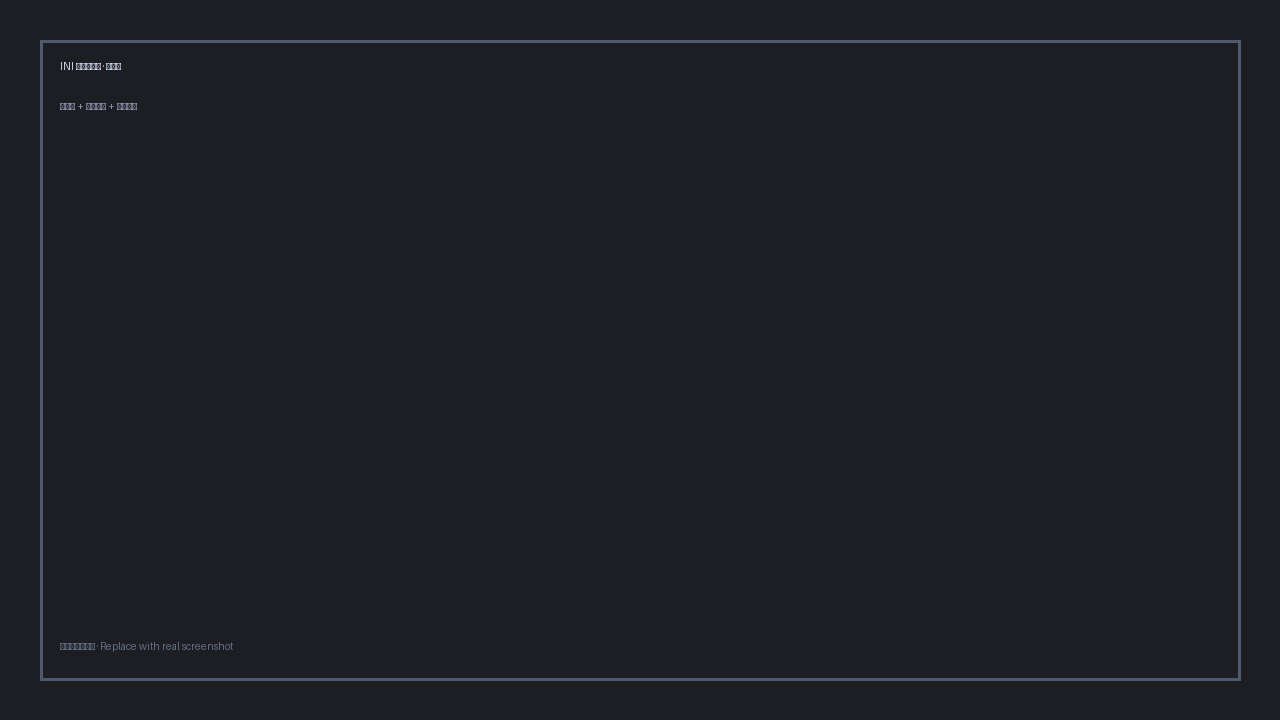
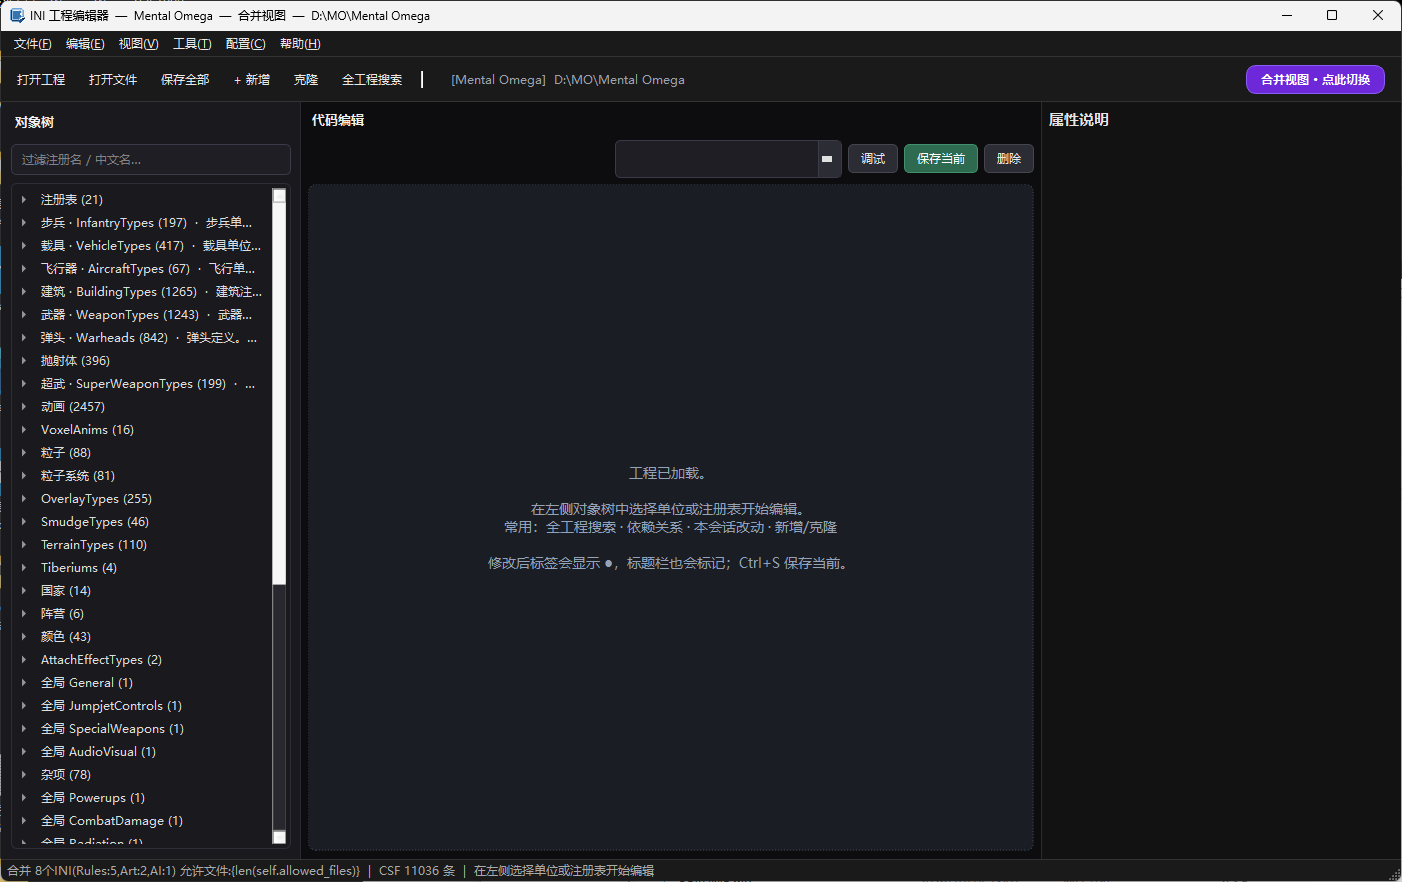
更新 README 界面预览截图（编辑器主界面/依赖图/新增克隆/工坊）

diff --git a/README.md b/README.md
@@ -30,19 +30,38 @@
 
 ## 界面预览
 
-> 正式截图请替换 `assets/screenshots/` 下同名文件后，本段图片会自动更新。
+截图位于 `assets/screenshots/`，替换同名文件后本段会自动更新。
 
 ### INI 工程编辑器
 
+主界面（对象树 + 合并视图）
+
 ![编辑器主界面](assets/screenshots/01_editor_main.png)
 
-![编辑器调试与部署](assets/screenshots/02_editor_debug.png)
+代码编辑（语法高亮、属性说明）
+
+![代码编辑](assets/screenshots/02_editor_code.png)
+
+依赖关系图（单位 → 武器 / 弹头 / 抛射体 / 前提 / 动画）
+
+![依赖关系图](assets/screenshots/03_editor_deps.png)
+
+新增单位向导
+
+![新增单位](assets/screenshots/04_editor_new.png)
+
+克隆单位向导
+
+![克隆单位](assets/screenshots/05_editor_clone.png)
+
+调试与部署
+
+![调试部署](assets/screenshots/06_editor_debug.png)
 
 ### 战术工坊
 
-![工坊主界面](assets/screenshots/03_workshop_main.png)
+![工坊主界面](assets/screenshots/07_workshop_main.png)
 
-![工坊部署 hotfix](assets/screenshots/04_workshop_deploy.png)
 
 ---
 

diff --git a/assets/README.md b/assets/README.md
@@ -7,9 +7,19 @@
 | `editor.ico` | 深蓝底板 + 文档；**右下角笔**（编辑） |
 | `workshop.ico` | 暖色同构底板；**中间一根笔**（快调书写） |
 | `reloader.ico` | 绿色循环箭头 |
-| `launcher.ico` | 深色中性底 + **星星**（避免红底金星政治联想） |
-| `launcher_mo.ico` / `launcher_yr.ico` | 与 `launcher.ico` 相同（启动器统一一版） |
+| `launcher.ico` | 深色中性底 + **星星** |
+| `launcher_mo.ico` / `launcher_yr.ico` | 与 `launcher.ico` 相同 |
 
-## 截图
+## 截图（`screenshots/`）
 
-见 `screenshots/`，替换同名文件即可更新根 README。
+| 文件 | 内容 |
+|------|------|
+| `01_editor_main.png` | 工程编辑器主界面 |
+| `02_editor_code.png` | 代码编辑 / 属性说明 |
+| `03_editor_deps.png` | 依赖关系图 |
+| `04_editor_new.png` | 新增单位向导 |
+| `05_editor_clone.png` | 克隆单位向导 |
+| `06_editor_debug.png` | 调试与部署 |
+| `07_workshop_main.png` | 战术工坊主界面 |
+
+替换同名文件即可更新根目录 README 预览。
